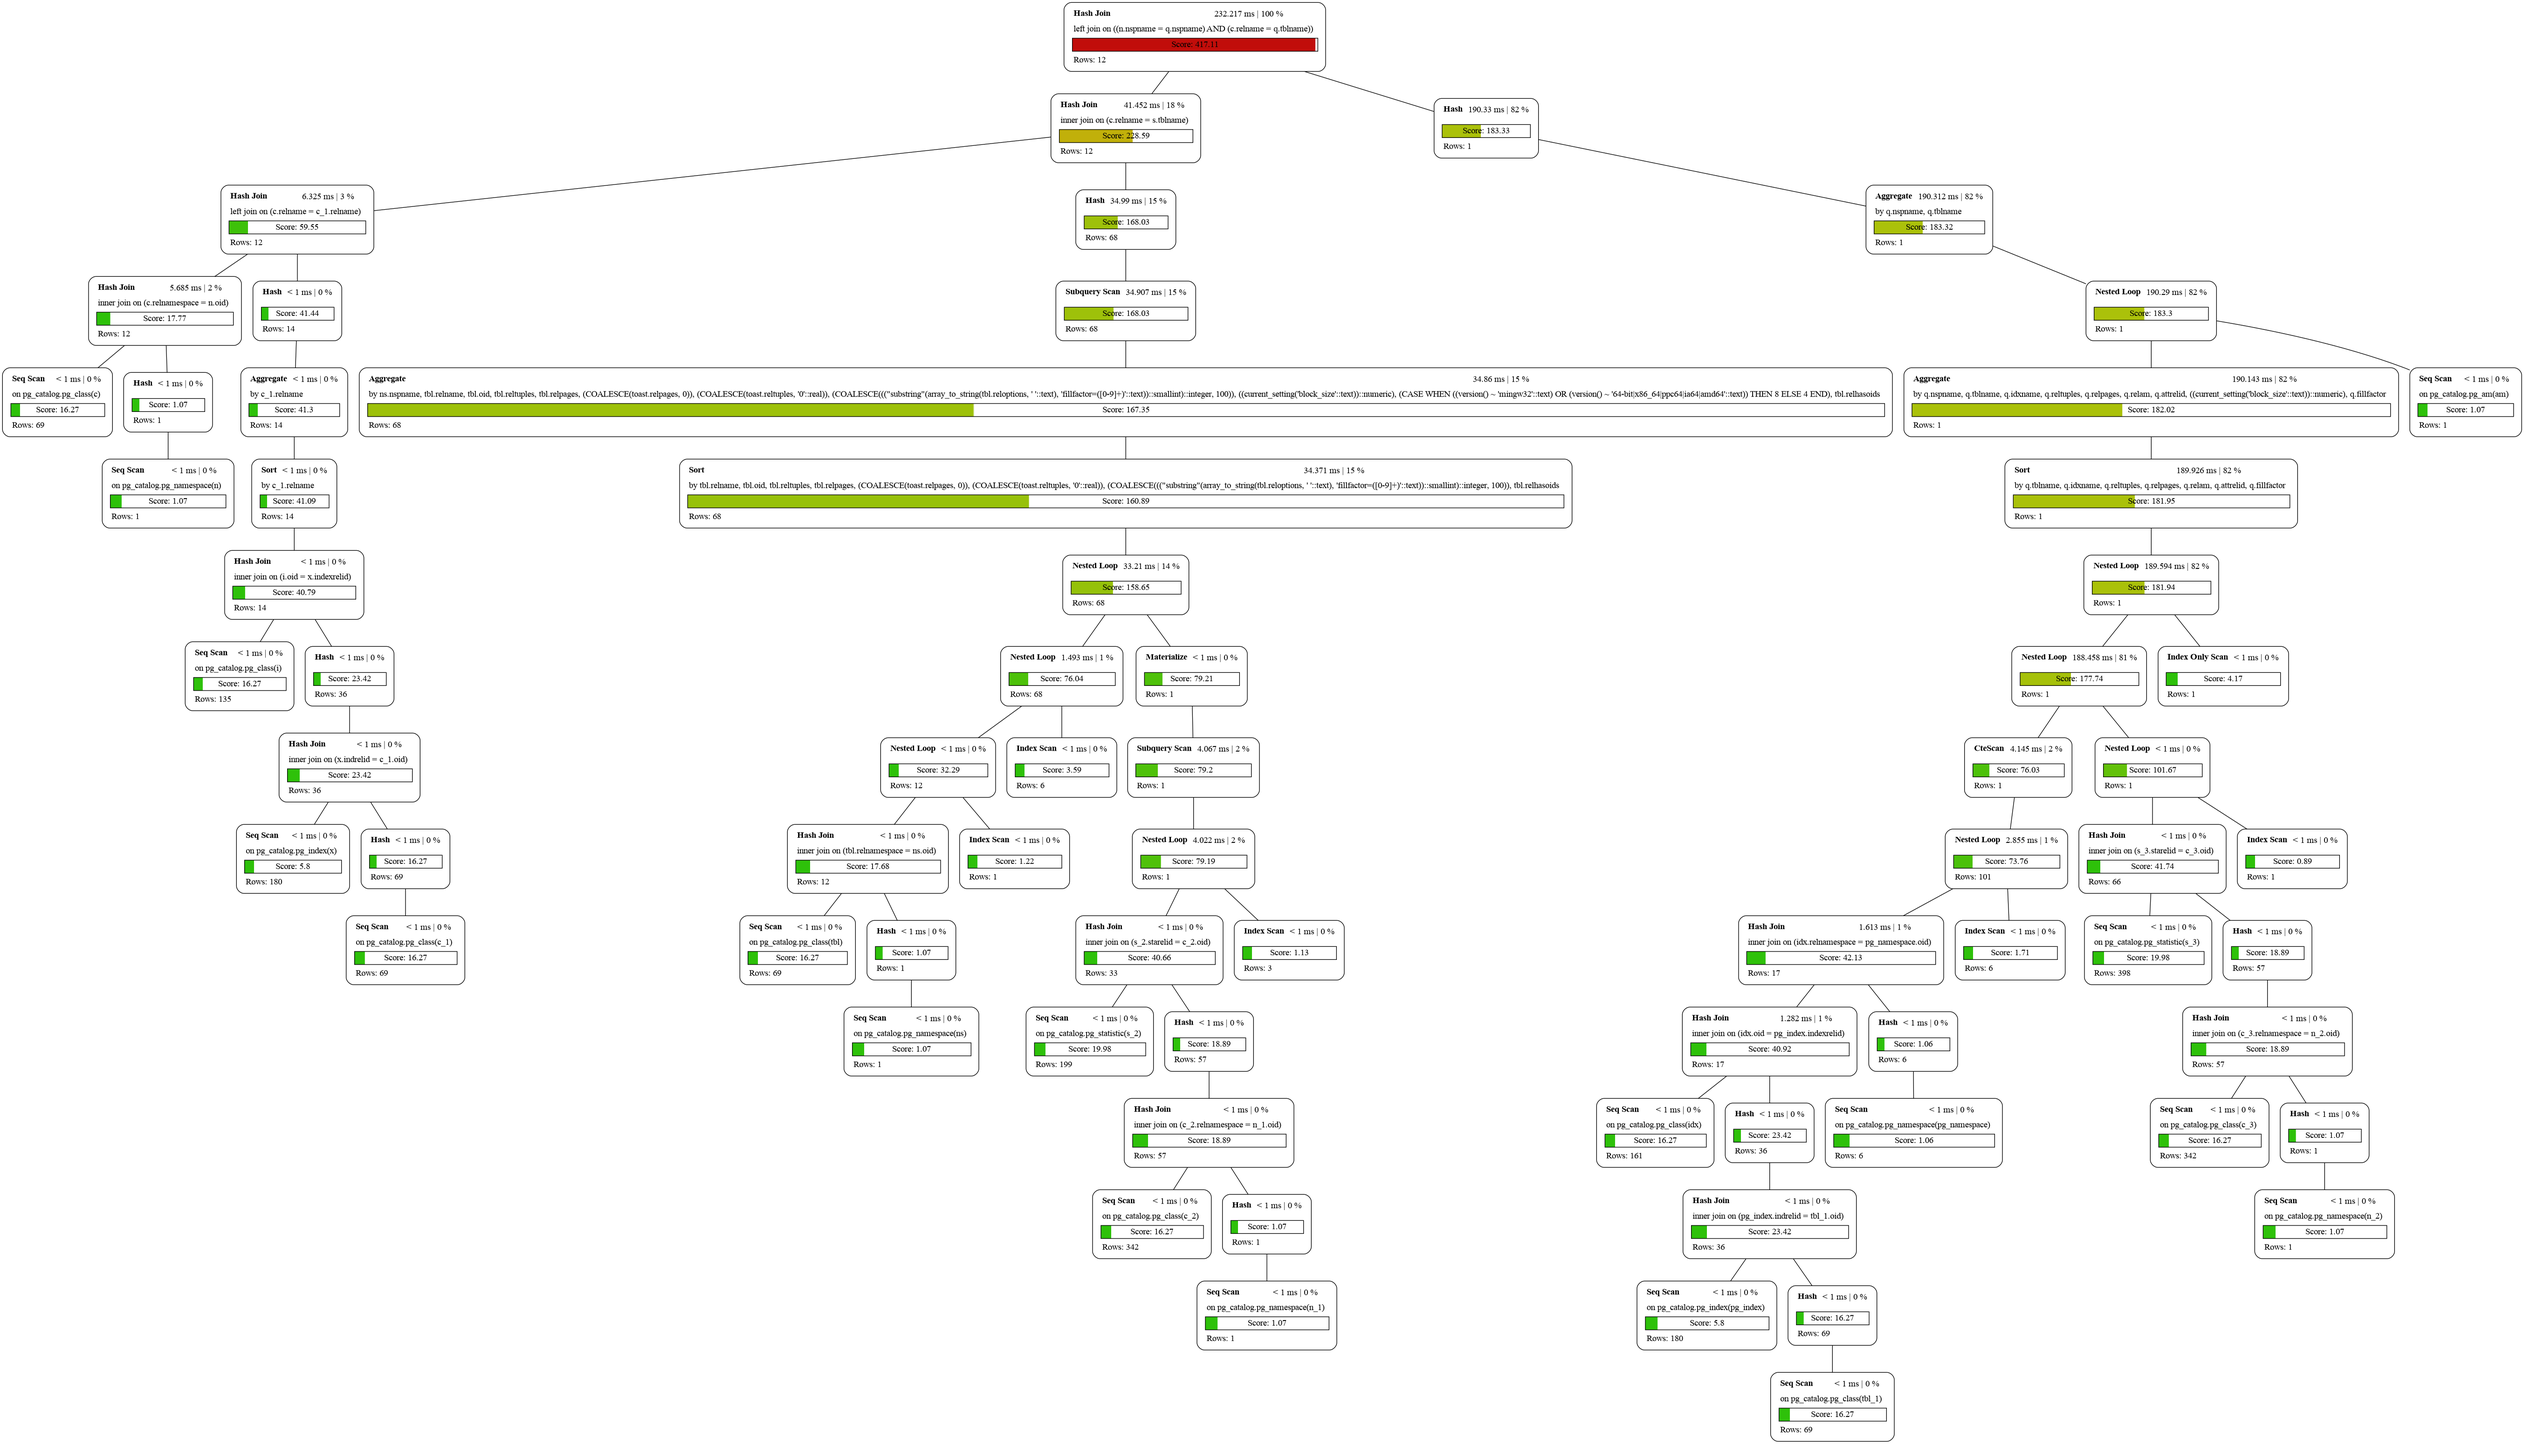
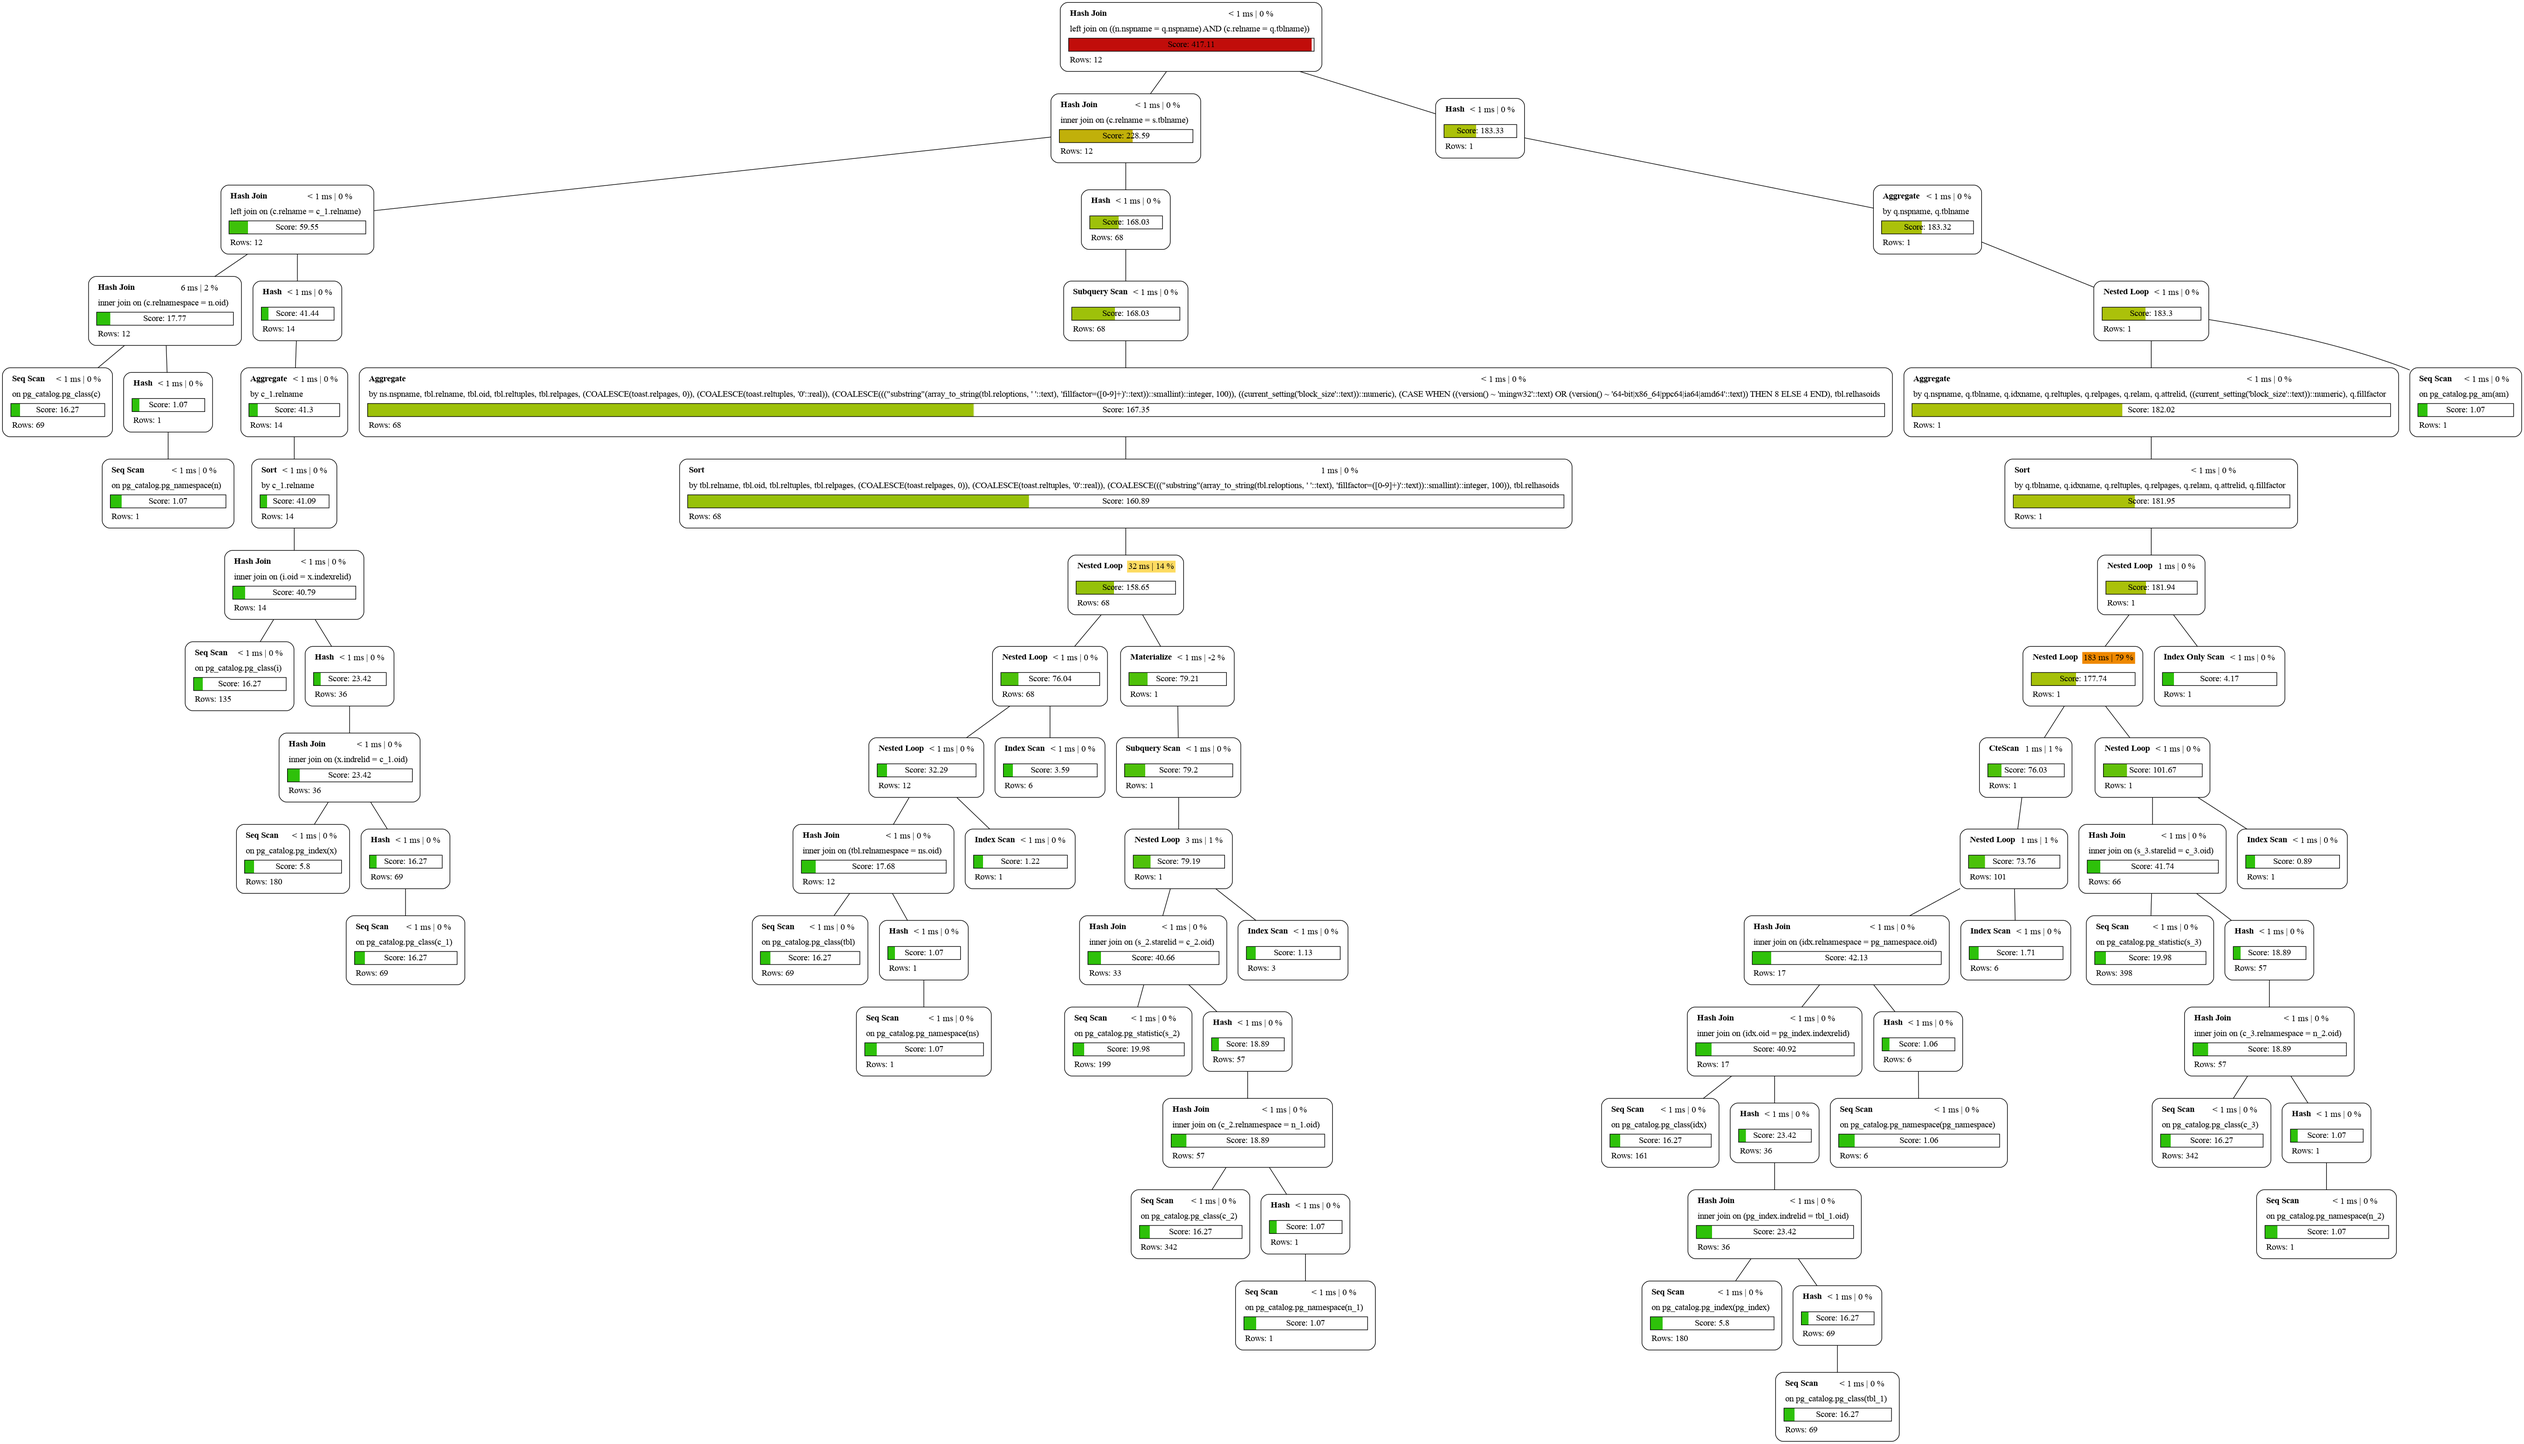
Adds duration color

diff --git a/src/graph.rs b/src/graph.rs
@@ -43,7 +43,9 @@ impl Node {
             if time < 1. {
                 format!("<td>&lt; 1 ms | {} %</td>", time_percent)
             } else {
-                format!("<td>{} ms | {} %</td>", time, time_percent)
+                let color = duration_color(time_percent);
+
+                format!("<td bgcolor=\"{}\">{} ms | {} %</td>", color, time.round(), time_percent)
             }
         } else {
             String::new()
@@ -159,6 +161,18 @@ impl<'a> dot::GraphWalk<'a, Nd, Ed<'a>> for Graph {
     }
 }
 
+fn duration_color(percent: f32) -> &'static str {
+    if percent > 90. {
+        "#880000"
+    } else if percent > 40. {
+        "#ee8800"
+    } else if percent > 10. {
+        "#fddb61"
+    } else {
+        "white"
+    }
+}
+
 fn color(percent: f32) -> String {
     let hue = (100. - percent * 100.) * 1.2 / 360.;
     let (red, green, blue) = hsl_to_rgb(hue, 0.9, 0.4);
@@ -232,7 +246,14 @@ fn info(plan: &crate::Plan) -> String {
 }
 
 fn time(plan: &crate::Plan) -> Option<f32> {
-    // @TODO soustraire le actual_total_time des enfant direct
+    if let Some(mut time) = plan.actual_total_time {
+        for child in &plan.plans {
+            time -= child.actual_total_time.unwrap_or_default();
+        }
 
-    plan.actual_total_time
+        Some(time)
+    }
+    else {
+        None
+    }
 }
